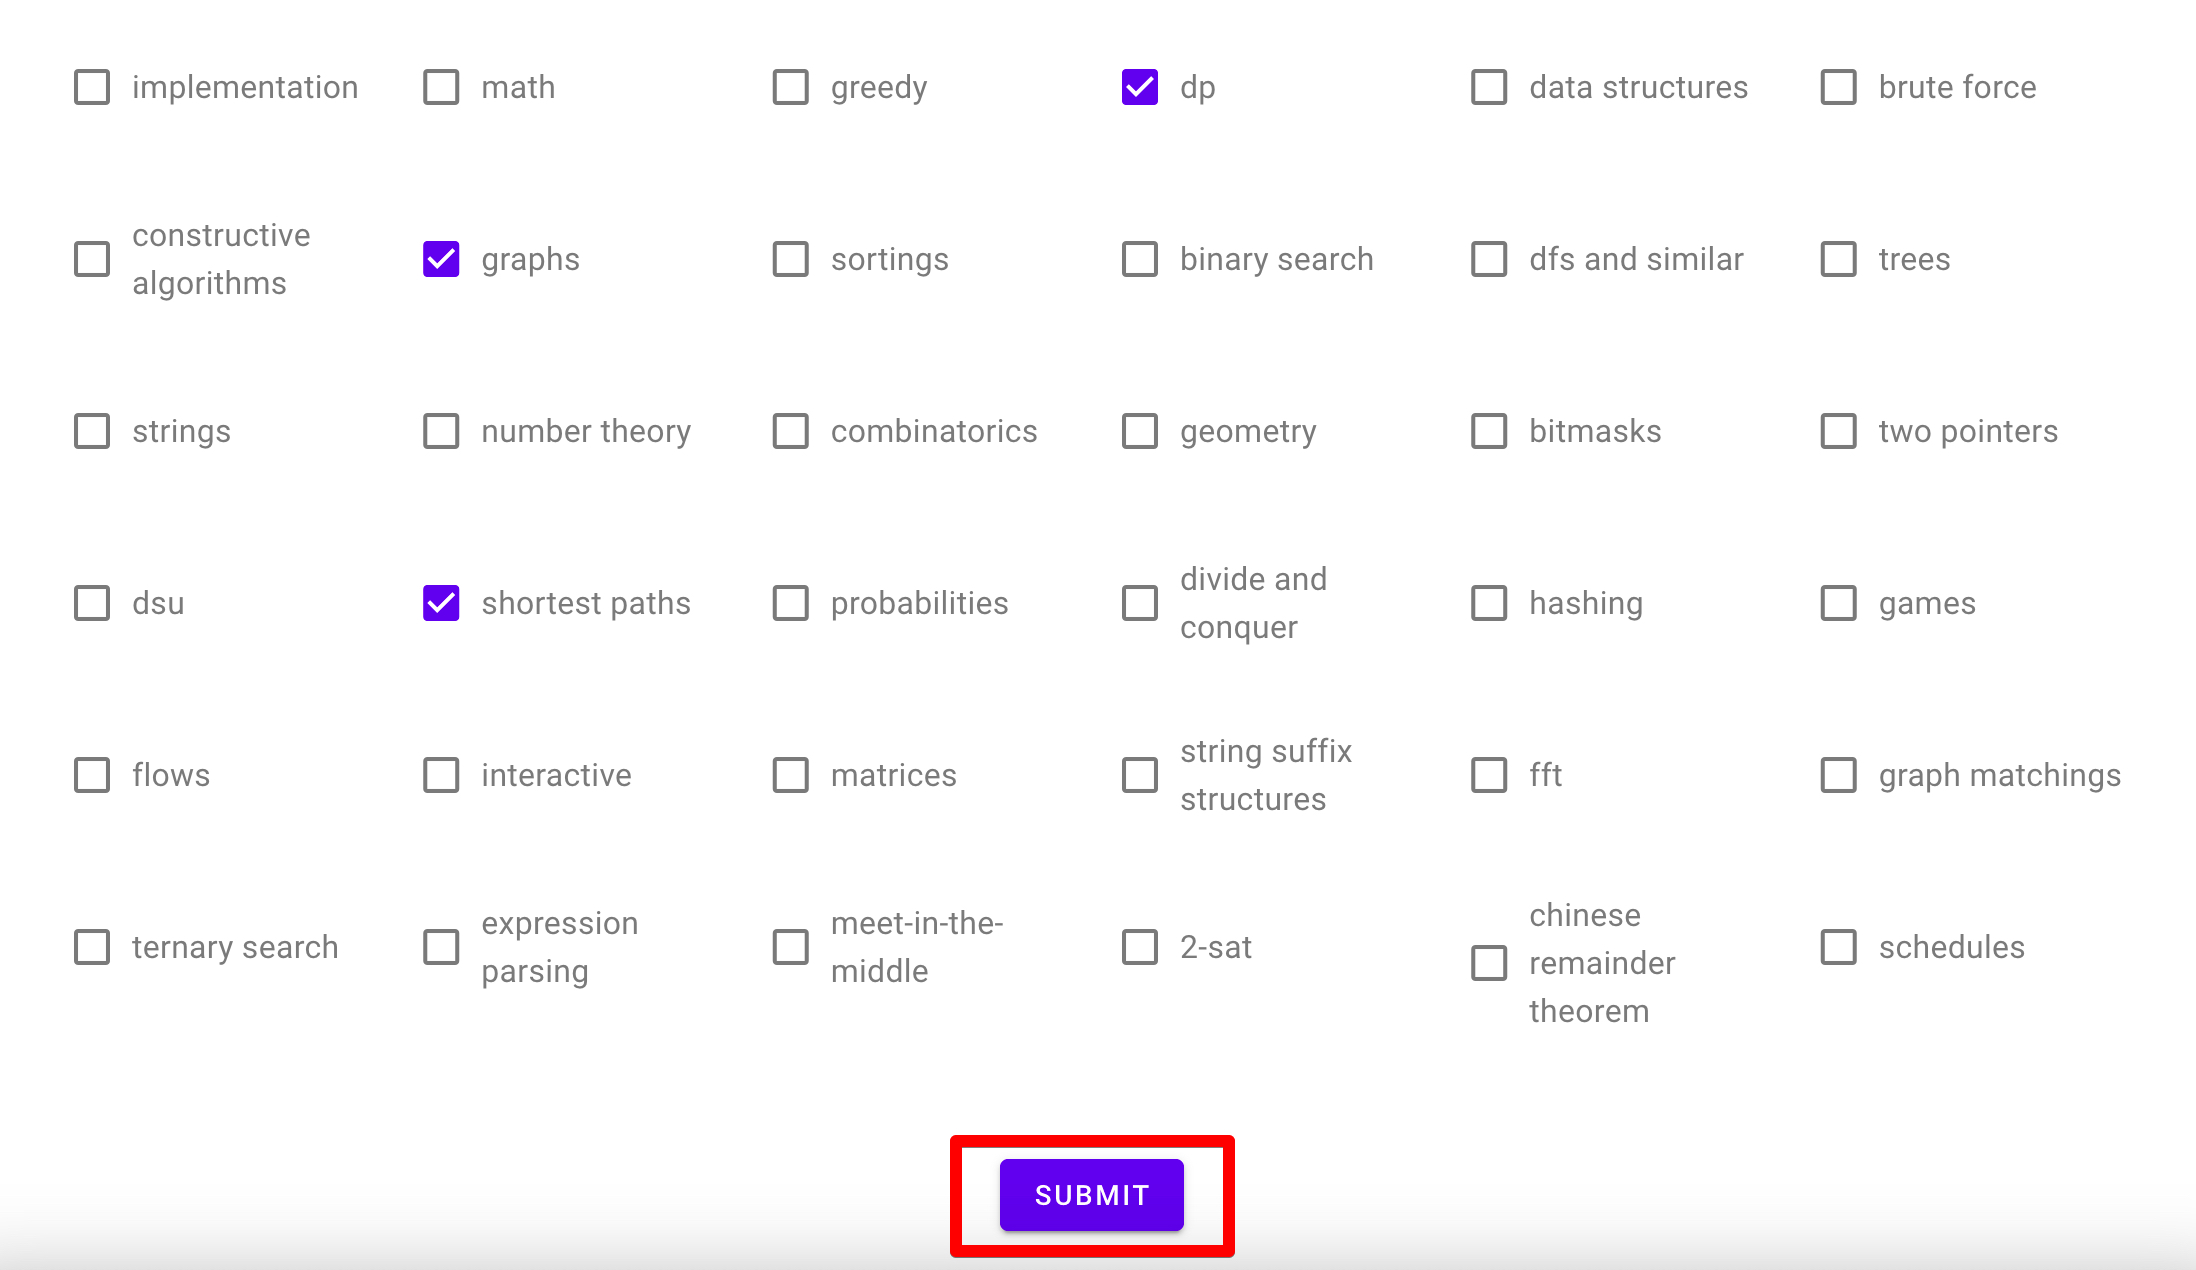
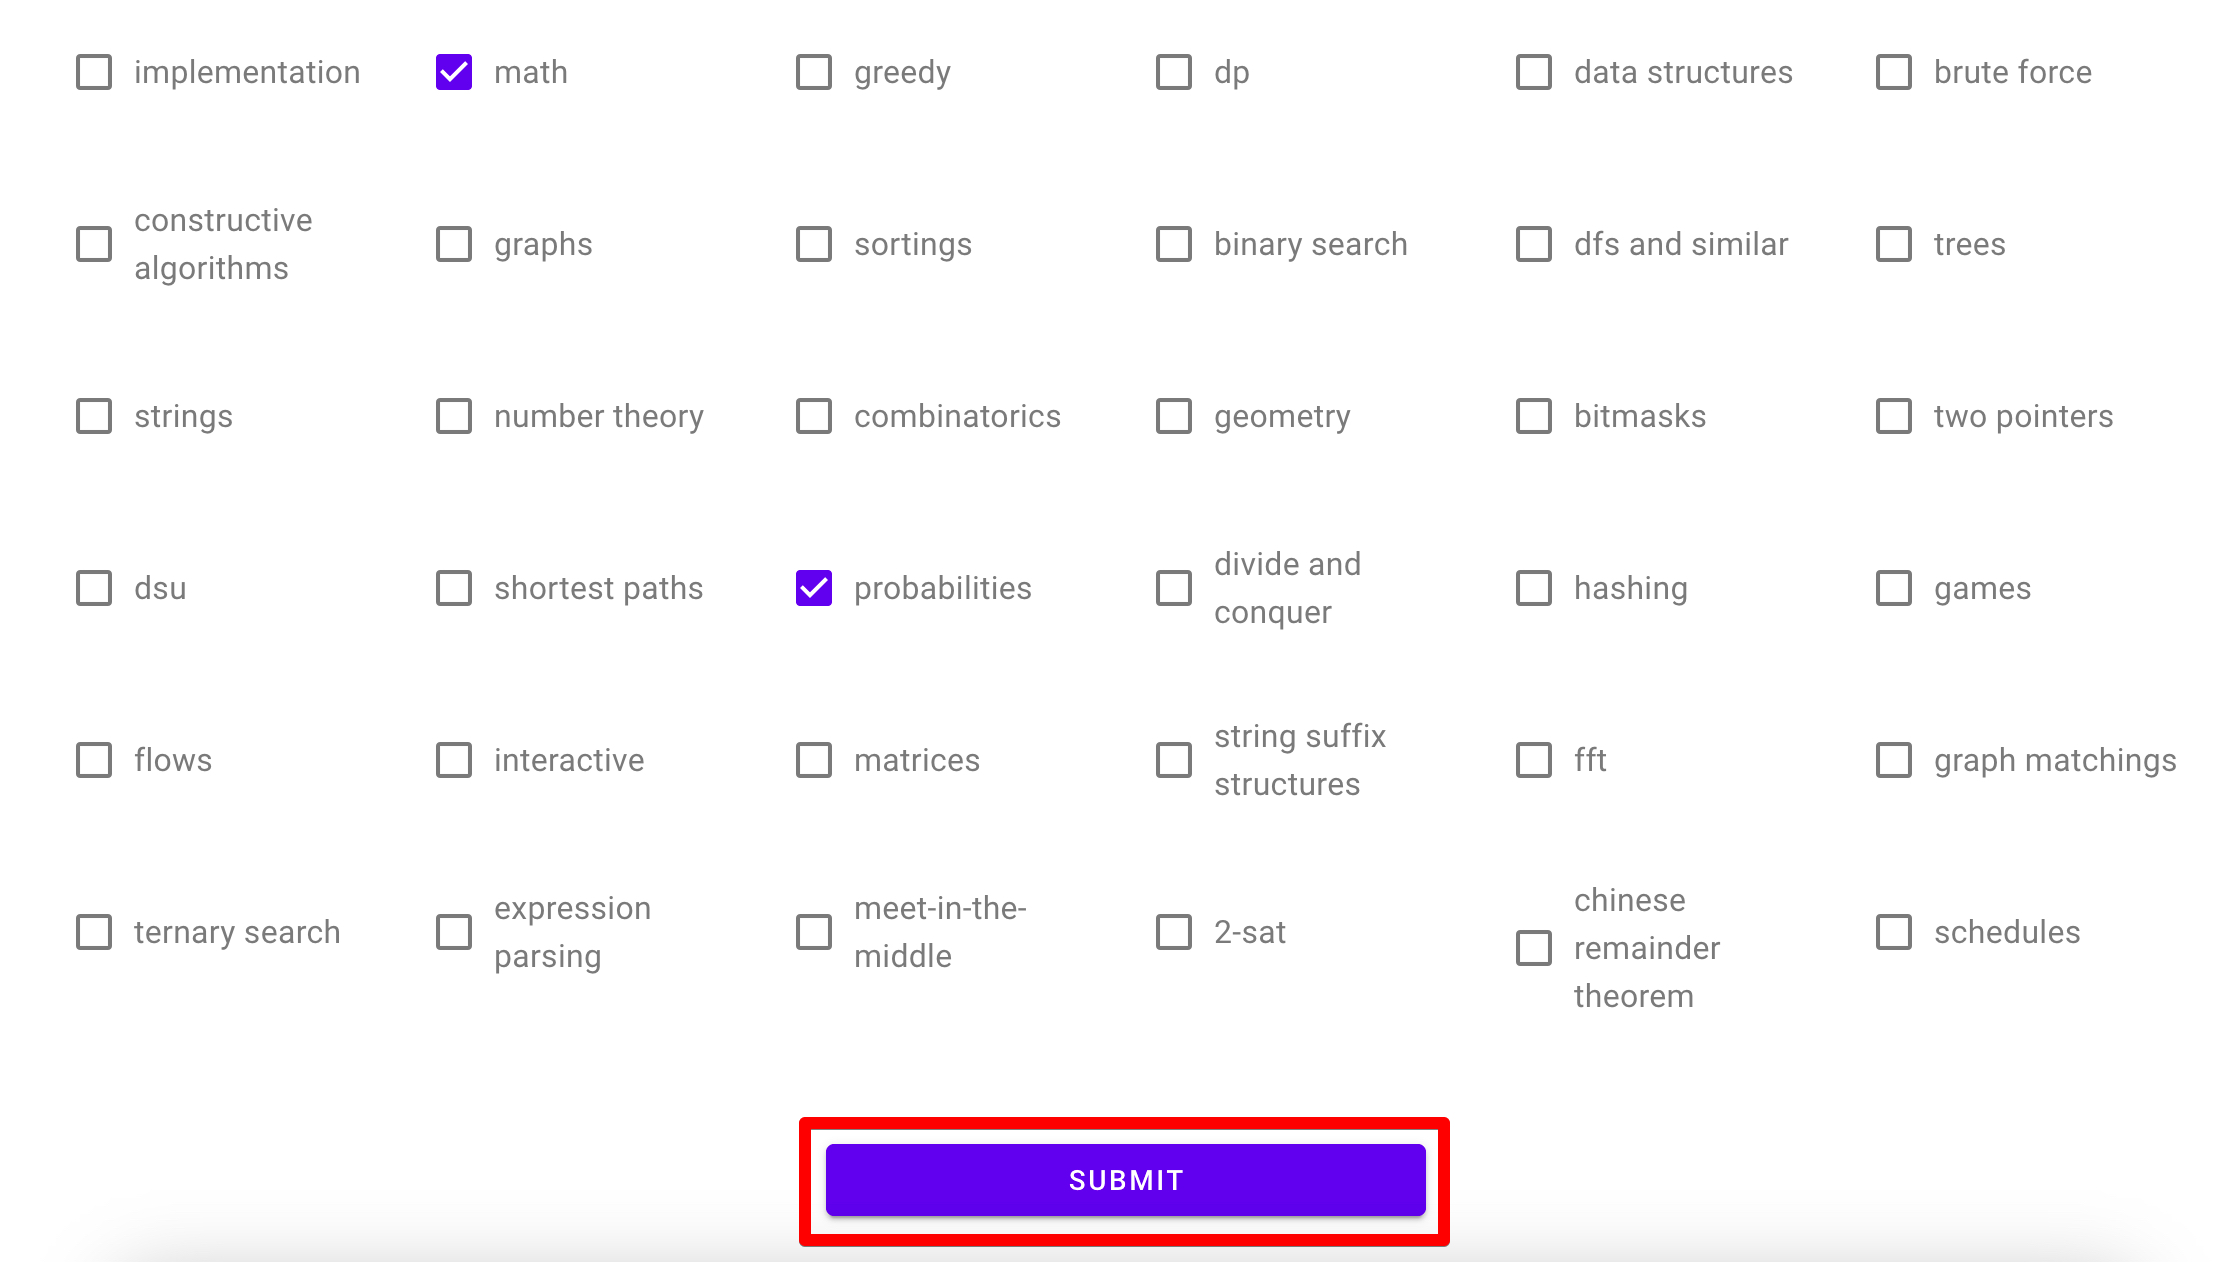
Update viewAbout.vue

diff --git a/src/views/viewAbout.vue b/src/views/viewAbout.vue
@@ -3,6 +3,7 @@ import HeaderComponent from "@/components/HeaderComponent.vue"
 import pic_atcoder_problem_url from "@/assets/atcoder_problem_url.jpg"
 import pic_solve_problem from "@/assets/tmp.jpg"
 import pic_tags_submit from "@/assets/tags_submit.jpg"
+import pic_submit_edit from "@/assets/submit_edit.jpg"
 </script>
 
 <template>
@@ -27,9 +28,10 @@ import pic_tags_submit from "@/assets/tags_submit.jpg"
 
                 <div class="mt-3 mb-8">
                   <div class="text-left">
-                    <h4 class="text-h6 ml-8 my-8"><b>・良問を解く</b></h4>
+                    <h4 class="text-h6 mx-0 my-8"><b>・良問を解く</b></h4>
                     <p>上部のタブから LIST を選択します。</p>
                     <p>OPEN PROBLEM を押すと、問題ページが開きます。</p>
+                    <p>カード自体を押すと、推薦理由が書かれたページが開きます。</p>
                   </div>
                   <v-img
                     :src="pic_solve_problem"
@@ -42,7 +44,7 @@ import pic_tags_submit from "@/assets/tags_submit.jpg"
 
                 <div class="mt-3 mb-8">
                   <div class="text-left">
-                    <h4 class="text-h6 ml-8 my-8"><b>・良問を登録する</b></h4>
+                    <h4 class="text-h6 mx-0 my-8"><b>・良問を登録する</b></h4>
                     <p>上部のタブから SUBMIT を選択します。</p>
                     <p>必要な情報を入力したら、SUBMIT ボタンを押します。</p>
                     <p>タグとして、問題に関係のある単語を1〜3個つけることができます。</p>
@@ -65,13 +67,14 @@ import pic_tags_submit from "@/assets/tags_submit.jpg"
 
                 <div class="mt-3 mb-8">
                   <div class="text-left">
-                    <h4 class="text-h6 ml-8 my-8"><b>・登録した問題を変更する</b></h4>
-                    <p>上部のタブから QUEUE を選択します。</p>
-                    <p>編集中....</p>
+                    <h4 class="text-h6 mx-0 my-8"><b>・登録した情報を変更する</b></h4>
+                    <p>上部のタブから LIST を選択します。</p>
+                    <p>鉛筆のアイコンを押すと、そのカードの変更依頼ページが開きます。</p>
+                    <p>必要な情報を入力したら、SUBMIT ボタンを押します。</p>
                   </div>
                   <v-img
-                    :src="pic_solve_problem"
-                    alt="how to find problem"
+                    :src="pic_submit_edit"
+                    alt="how to submit edit"
                     :width="700"
                     style="box-shadow: 1px 1px 3px rgba(128, 128, 128, 0.5), -1px -1px 3px rgba(255, 255, 255, 0.5)"
                     class="my-12"

diff --git a/src/views/submitEdit.vue b/src/views/submitEdit.vue
@@ -158,7 +158,7 @@ const onSubmit = async (values, { resetForm }) => {
                     </v-col>
 
                     <v-col cols="12">
-                      <v-btn color="primary" type="submit">Submit</v-btn>
+                      <v-btn color="primary" type="submit" style="width: 300px">Submit</v-btn>
                     </v-col>
                     <v-alert
                       density="comfortable"
